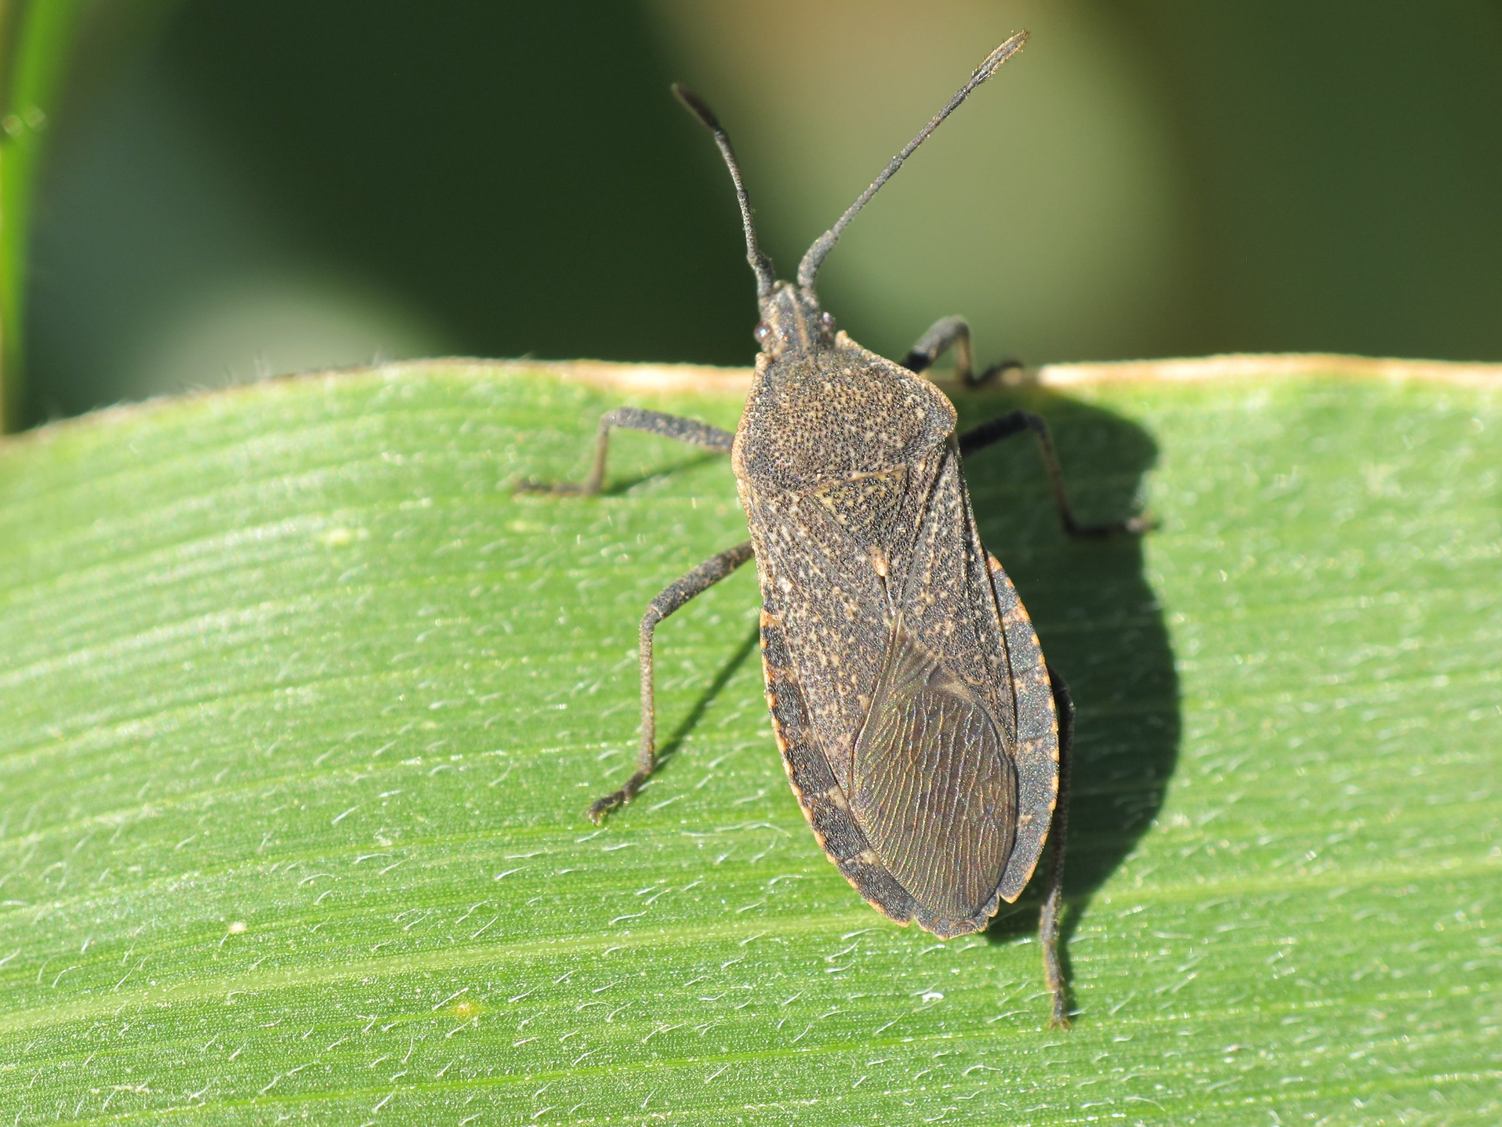
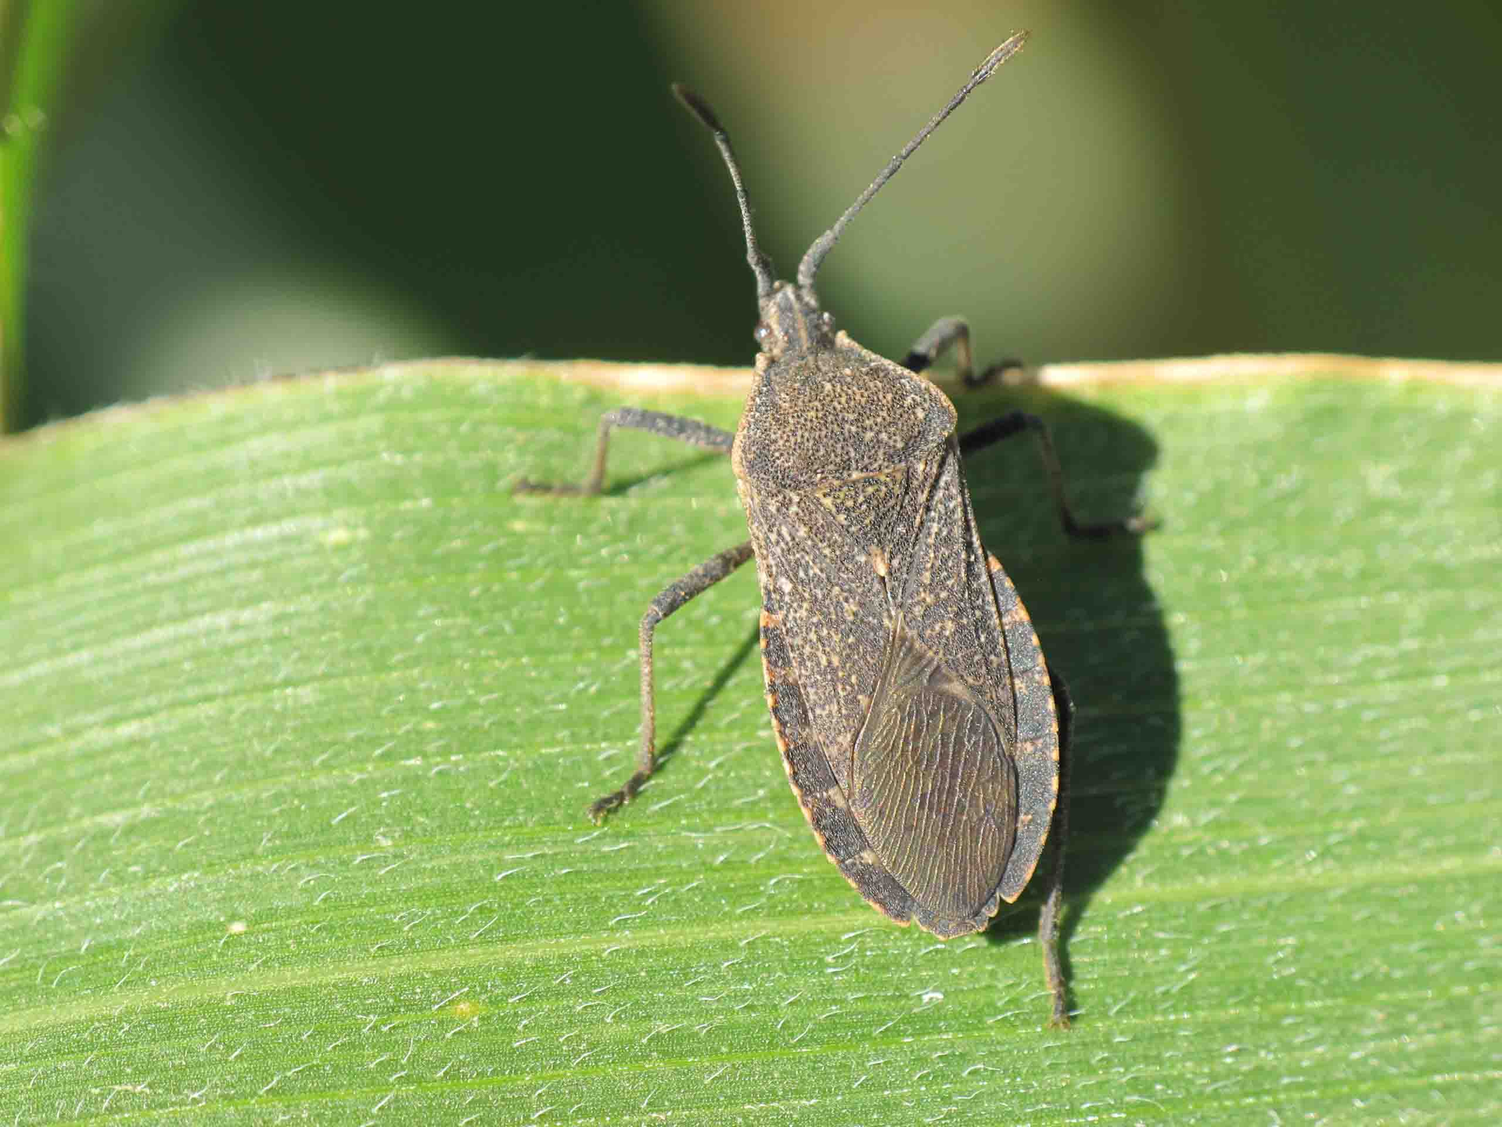
Changed sizes of all the pictures and added alt tags.

Changed region(s): [[0.5, 0.3125, 0.7188, 0.8438], [0.0, 0.8438, 0.6562, 1.0]]

diff --git a/fight.html b/fight.html
@@ -55,9 +55,9 @@
                 <div class="accordion-item-body">
                     <div class="accordion-item-body-content">
                         <a href="images/cucumber-beetle.jpg" target=blank>
-                            <img src="images/cucumber-beetle.jpg" class="accordion-image">
+                            <img src="images/cucumber-beetle.jpg" alt="Spotted and striped cucumber beetles" class="accordion-image">
                         </a>
-                        A cucumber beetle resembles a ladybug in size and appearance, but is easily distinguishable
+                        <p>A cucumber beetle resembles a ladybug in size and appearance, but is easily distinguishable
                         due to its bright yellow color. The adults can be found on cucurbits such as
                         cucumbers, squash, watermelon, and a variety of other plants. They are notorious pests of
                         agricultural crops.
@@ -67,7 +67,7 @@
                         plants in a matter of weeks.
                         Eradication efforts include clearing cultivated areas of litter, debris, and infested
                         plants. They are also attracted to the color yellow, so placing yellow sticky traps in the area
-                        will often capture hundreds of them and take them out of circulation in your garden.
+                        will often capture hundreds of them and take them out of circulation in your garden.</p>
                     </div>
                 </div>
             </div>
@@ -81,9 +81,9 @@
                 <div class="accordion-item-body">
                     <div class="accordion-item-body-content">
                         <a href="images/squash-bug.jpg" target=blank>
-                            <img src="images/squash-bug.jpg" class="accordion-image">
+                            <img src="images/squash-bug.jpg" alt="Squash bug on leaf" class="accordion-image">
                         </a>
-                        The squash bug is a major pest of squash and pumpkins and is found throughout North America.
+                        <p>The squash bug is a major pest of squash and pumpkins and is found throughout North America.
                         They
                         emit an unpleasant odor when killed.
                         The adult female lays two or three batches of about eighteen eggs, oval and bronze in colour,
@@ -97,7 +97,7 @@
                         manually removed
                         and dropped into a bucket of soapy water and left to drown. If not controlled, they will
                         multiply
-                        by the hundreds and completely decimate entire crops of vegetables.
+                        by the hundreds and completely decimate entire crops of vegetables.</p>
                     </div>
                 </div>
             </div>
@@ -111,9 +111,9 @@
                 <div class="accordion-item-body">
                     <div class="accordion-item-body-content">
                         <a href="images/squash-vine-borer.jpg" target=blank>
-                            <img src="images/squash-vine-borer.jpg" class="accordion-image">
+                            <img src="images/squash-vine-borer.jpg" alt="Squash vine-boring moth" class="accordion-image">
                         </a>
-                        The squash vine borer is a species of moth that is often mistaken for a bee or wasp because of
+                        <p>The squash vine borer is a species of moth that is often mistaken for a bee or wasp because of
                         its movements, and its bright orange hind leg
                         scales. The females typically lay their eggs at the base of leaf stalks, and the caterpillars
                         develop and feed inside the stalk, eventually killing the leaf. They soon migrate to the main
@@ -124,7 +124,7 @@
                         Brazil and Argentina. It lives in most temperate US states, except the Pacific
                         coast. Southern states have two broods a year. A small utility knife and tweezers, or other fine
                         tools, may be used to gently cut open the stem
-                        and try to extract the larva before it can kill the plant.
+                        and try to extract the larva before it can kill the plant.</p>
                     </div>
                 </div>
             </div>
@@ -138,9 +138,9 @@
                 <div class="accordion-item-body">
                     <div class="accordion-item-body-content">
                         <a href="images/tomato-hornworm.jpg" target=blank>
-                            <img src="images/tomato-hornworm.jpg" class="accordion-image">
+                            <img src="images/tomato-hornworm.jpg" alt="Tomato hornworm on plant" class="accordion-image">
                         </a>
-                        The tomato hornworm is a major pest in gardens; they get their name from a dark projection on
+                        <p>The tomato hornworm is a major pest in gardens; they get their name from a dark projection on
                         their posterior and their use of
                         tomatoes as host plants. Tomato hornworms are closely related to (and sometimes confused with)
                         the tobacco hornworm Manduca Sexta. This confusion arises because caterpillars of both species
@@ -153,7 +153,7 @@
                         during the day and are generally high up in the leaves. They are very large insects, often over
                         1 inch
                         in length, and can be manually
-                        removed from plants with ease and disposed of.
+                        removed from plants with ease and disposed of.</p>
                     </div>
                 </div>
             </div>
@@ -167,9 +167,9 @@
                 <div class="accordion-item-body">
                     <div class="accordion-item-body-content">
                         <a href="images/japanese-beetle.jpg" target=blank>
-                            <img src="images/japanese-beetle.jpg" class="accordion-image">
+                            <img src="images/japanese-beetle.jpg" alt="Japanese beetle on leaf" class="accordion-image">
                         </a>
-                        The Japanese beetle is a species of scarab beetle. The adult has an iridescent copper-colored
+                        <p>The Japanese beetle is a species of scarab beetle. The adult has an iridescent copper-colored
                         body and a green
                         thorax and head. It is not very destructive in Japan (where it is controlled by natural
                         predators), but in North America and some regions of Europe it is a noted pest to roughly 300
@@ -182,7 +182,7 @@
                         specifically to target Japanese beetles. These comprise a pair of crossed walls with a bag or
                         plastic container underneath and are baited with floral scent, pheromone, or both. The bugs
                         crawl
-                        inside, get trapped and die.
+                        inside, get trapped and die.</p>
                     </div>
                 </div>
             </div>
@@ -196,9 +196,9 @@
                 <div class="accordion-item-body">
                     <div class="accordion-item-body-content">
                         <a href="images/fusarium-wilt.jpg" target=blank>
-                            <img src="images/fusarium-wilt.jpg" class="accordion-image">
+                            <img src="images/fusarium-wilt.jpg" alt="Tomate plant with severe fusarium wilt" class="accordion-image">
                         </a>
-                        Fusarium wilt is a common vascular wilt fungal disease.
+                        <p>Fusarium wilt is a common vascular wilt fungal disease.
                         The fungal pathogen Fusarium Oxysporum affects a wide variety of plants of any age. Tomato,
                         tobacco, legumes, cucurbits, sweet potatoes and banana are a few of the most susceptible plants,
                         but it also infects other herbaceous plants. The fungus generally produces symptoms such as
@@ -210,7 +210,7 @@
                         fungus has appeared, it is generally too late to save the plant. Preventative steps should be
                         taken
                         to prevent its appearance, such as the application of natural fungicides like Copper and
-                        Mancozeb.
+                        Mancozeb.</p>
                     </div>
                 </div>
             </div>
@@ -224,9 +224,9 @@
                 <div class="accordion-item-body">
                     <div class="accordion-item-body-content">
                         <a href="images/tomato-blight.jpg" target=blank>
-                            <img src="images/tomato-blight.jpg" class="accordion-image">
+                            <img src="images/tomato-blight.jpg" alt="Tomaotes with blight spots on their skin" class="accordion-image">
                         </a>
-                        Blight is a rapid and complete chlorosis, browning, then death of plant tissues such as leaves,
+                        <p>Blight is a rapid and complete chlorosis, browning, then death of plant tissues such as leaves,
                         branches, twigs, flowers, or fruit.
                         When blights have been particularly vast and consequential in their effects, they have become
                         named historical events, such as the 19th Century Potato Blight, also known as the Great Famine
@@ -239,7 +239,7 @@
                         any
                         plant beleived to be suffering from the disease should be removed from the garden and destroyed
                         as
-                        quickly as possible.
+                        quickly as possible.</p>
                     </div>
                 </div>
             </div>
@@ -253,9 +253,9 @@
                 <div class="accordion-item-body">
                     <div class="accordion-item-body-content">
                         <a href="images/powdery-mildew.jpg" target=blank>
-                            <img src="images/powdery-mildew.jpg" class="accordion-image">
+                            <img src="images/powdery-mildew.jpg" alt="Powdery mildew on squash leaf" class="accordion-image">
                         </a>
-                        Powdery mildew is a fungal disease that affects a wide range of plants. The disease is caused
+                        <p>Powdery mildew is a fungal disease that affects a wide range of plants. The disease is caused
                         by many different species of fungi and is one of the easier plant diseases to identify, as its
                         symptoms are quite distinctive.
                         Infected plants display white powdery spots on the leaves and stems. The lower leaves are the
@@ -265,7 +265,7 @@
                         Powdery mildew grows well in environments with high humidity and moderate temperatures, such as
                         Kentucky. The disease is also known to cause harm to agricultural and horticultural practices in
                         a greenhouse setting. Preventative maintenance is the key: apply natural fungicides
-                        such as Copper and Mancozeb before the disease makes an appearance.
+                        such as Copper and Mancozeb before the disease makes an appearance.</p>
                     </div>
                 </div>
             </div>
@@ -279,9 +279,9 @@
                 <div class="accordion-item-body">
                     <div class="accordion-item-body-content">
                         <a href="images/downy-mildew.jpg" target=blank>
-                            <img src="images/downy-mildew.jpg" class="accordion-image">
+                            <img src="images/downy-mildew.jpg" alt="Downy mildew on squash leaf" class="accordion-image">
                         </a>
-                        Despite its name, Downy Mildew is not actually mildew, but rather microbes that are parasites of
+                        <p>Despite its name, Downy Mildew is not actually mildew, but rather microbes that are parasites of
                         plants. In commercial
                         agriculture, they are a particular problem for growers of grapes and any vegetables that
                         grow on vines. Yield loss associated with downy mildew is usually
@@ -292,7 +292,7 @@
                         rapidly, destroying all leaf tissue.
                         One way to control the spread is to eliminate moisture and humidity around the impacted
                         plants. You can achieve this by watering from below, such as with a drip system, and improving
-                        air circulation through selective pruning.
+                        air circulation through selective pruning.</p>
                     </div>
                 </div>
             </div>
@@ -306,9 +306,9 @@
                 <div class="accordion-item-body">
                     <div class="accordion-item-body-content">
                         <a href="images/leaf-spot.jpg" target=blank>
-                            <img src="images/leaf-spot.jpg" class="accordion-image">
+                            <img src="images/leaf-spot.jpg" alt="Leaf spot on blackberry leaves" class="accordion-image">
                         </a>
-                        A leaf spot is a discolored, diseased area of a leaf that is caused by fungal,
+                        <p>A leaf spot is a discolored, diseased area of a leaf that is caused by fungal,
                         bacterial or viral plant diseases. These discoloured spots or lesions often have a center of
                         necrosis (cell death).
                         Prolonged wet and humid conditions promote leaf spot disease and most pathogens are spread by
@@ -319,7 +319,7 @@
                         Fungicides such as Zineb, Chlorothalonil and Captan, can be used to treat the disease. If
                         the spots appear later in the season, they can usually be ignored if present on deciduous plants
                         since the leaves will be dropped. Be sure to bag the leaves and remove them to prevent the
-                        disease from reappearing the following year.
+                        disease from reappearing the following year.</p>
                     </div>
                 </div>
             </div>

diff --git a/grow.html b/grow.html
@@ -53,7 +53,7 @@
                 </div>
                 <div class="accordion-item-body">
                     <div class="accordion-item-body-content">
-                        <a href="images/tomatoes.jpg" target=blank>
+                        <a href="images/tomatoes.jpg" alt="Red tomatoes" target=blank>
                             <img src="images/tomatoes.jpg" class="accordion-image">
                         </a>
                         <p>Virtually any type of tomato can be grown in Kentucky. There are hundreds of varieties
@@ -85,7 +85,7 @@
                 <div class="accordion-item-body">
                     <div class="accordion-item-body-content">
                         <a href="images/peppers.jpg" target=blank>
-                            <img src="images/peppers.jpg" class="accordion-image">
+                            <img src="images/peppers.jpg" alt="Multi-colored bell peppers" class="accordion-image">
                         </a>
                         <p>Peppers are fairly easy to grow. There are not very many pests or animals that eat the
                             leaves or the peppers themselves. Popular varieties are Bell, Jalapeno, Serrano, and
@@ -116,7 +116,7 @@
                 <div class="accordion-item-body">
                     <div class="accordion-item-body-content">
                         <a href="images/onions.jpg" target=blank>
-                            <img src="images/onions.jpg" class="accordion-image">
+                            <img src="images/onions.jpg" alt="Yellow onions" class="accordion-image">
                         </a>
                         <p>Onion bulbs should be planted about one inch beneath the soil surface. Lightly pack the dirt
                             over top of them, but do not smash it flat or the bulb may have difficulty sprouting and
@@ -151,7 +151,7 @@
                 <div class="accordion-item-body">
                     <div class="accordion-item-body-content">
                         <a href="images/garlic.jpg" target=blank>
-                            <img src="images/garlic.jpg" class="accordion-image">
+                            <img src="images/garlic.jpg" alt="Freshly picked garlic bulbs" class="accordion-image">
                         </a>
                         <p>Garlic is one of the simplest plants to grow. There are very few pests that attack it and
                             most
@@ -182,7 +182,7 @@
                 <div class="accordion-item-body">
                     <div class="accordion-item-body-content">
                         <a href="images/watermelon.jpg" target=blank>
-                            <img src="images/watermelon.jpg" class="accordion-image">
+                            <img src="images/watermelon.jpg" alt="Watermelon slices" class="accordion-image">
                         </a>
                         <p>Watermelon is not one of the easiest fruits to grow, but it is one of the most delicious.
                             Depending on the variety, watermelons can be anywhere from the size of a bowling ball on up
@@ -211,7 +211,7 @@
                 <div class="accordion-item-body">
                     <div class="accordion-item-body-content">
                         <a href="images/cucumbers.jpg" target=blank>
-                            <img src="images/cucumbers.jpg" class="accordion-image">
+                            <img src="images/cucumbers.jpg" alt="Pickling cucumbers" class="accordion-image">
                         </a>
                         <p>Cucumbers can grow on the ground, but they are for more successful when allowed to climb
                             upward
@@ -247,7 +247,7 @@
                 <div class="accordion-item-body">
                     <div class="accordion-item-body-content">
                         <a href="images/zucchini.jpg" target=blank>
-                            <img src="images/zucchini.jpg" class="accordion-image">
+                            <img src="images/zucchini.jpg" alt="Green zucchini" class="accordion-image">
                         </a>
                         <p>There are dozens of types of squash that can be grown in Kentucky, but the most popular is
                             definitely the zucchini.
@@ -279,7 +279,7 @@
                 <div class="accordion-item-body">
                     <div class="accordion-item-body-content">
                         <a href="images/potatoes.jpg" target=blank>
-                            <img src="images/potatoes.jpg" class="accordion-image">
+                            <img src="images/potatoes.jpg" alt="Yellow potatoes" class="accordion-image">
                         </a>
                         <p>Potatoes should be planted a few inches beneath the soil. As they grow, you will begin to see
                             the soil
@@ -313,7 +313,7 @@
                 <div class="accordion-item-body">
                     <div class="accordion-item-body-content">
                         <a href="images/asparagus.jpg" target=blank>
-                            <img src="images/asparagus.jpg" class="accordion-image">
+                            <img src="images/asparagus.jpg" alt="Asparagus spears" class="accordion-image">
                         </a>
                         <p>Asparagus should be planted about 6 inches deep. As the plant begins to grow, you must not
                             harvest it
@@ -346,7 +346,7 @@
                 <div class="accordion-item-body">
                     <div class="accordion-item-body-content">
                         <a href="images/herbs.jpg" target=blank>
-                            <img src="images/herbs.jpg" class="accordion-image">
+                            <img src="images/herbs.jpg" alt="Basil, rosemary and thyme" class="accordion-image">
                         </a>
                         <p>Herbs are abundant in Kentucky. Rosemary, thyme, basil, oregano, sage, mint... they all have
                             wonderful

diff --git a/script.js b/script.js
@@ -8,10 +8,15 @@ hamburger.addEventListener("click", () => {
     navMenu.classList.toggle("active");
 })
 
-document.querySelectorAll("nav-link").forEach(n => n.addEventListener("click", () => {
+window.addEventListener("scroll", () => {
     hamburger.classList.remove("active");
     navMenu.classList.remove("active");
-}))
+})
+
+// document.querySelectorAll("nav-link").forEach(n => n.addEventListener("click", () => {
+//     hamburger.classList.remove("active");
+//     navMenu.classList.remove("active");
+// }))
 
 // show an alert when the contact form button is clicked
 
@@ -25,15 +30,9 @@ const accordionItemHeaders = document.querySelectorAll(".accordion-item-header")
 
 accordionItemHeaders.forEach(accordionItemHeader => {
     accordionItemHeader.addEventListener("click", () => {
-        // const currentlyActiveAccordion = document.querySelector(".accordion-item-header.active");
-        // if(currentlyActiveAccordion && currentlyActiveAccordion!==accordionItemHeader){
-        //     currentlyActiveAccordion.classList.toggle("active");
-        //     currentlyActiveAccordion.nextElementSibling.style.maxHeight = 0;
-        // }
-
         accordionItemHeader.classList.toggle("active");
         const accordionItemBody = accordionItemHeader.nextElementSibling;
-        if(accordionItemHeader.classList.contains("active")) {
+        if (accordionItemHeader.classList.contains("active")) {
             accordionItemBody.style.maxHeight = accordionItemBody.scrollHeight + "px"
         }
         else {

diff --git a/styles.css b/styles.css
@@ -53,6 +53,8 @@ a {
 .hamburger {
     display: none;
     cursor: pointer;
+    background: none;
+    border: none;
 }
 
 .bar {
@@ -135,8 +137,8 @@ a {
 /* clickable card section */
 
 .card-container {
-    background-image: linear-gradient(rgba(0, 0, 0, 50%), rgba(0, 0, 0, 70%)), url(images/card-background.jpg);
-    background-size: cover;
+    background-color: #14341c;
+    background-image: linear-gradient(#14341c, black);
     display: flex;
     justify-content: center;
     align-items: center;
@@ -285,7 +287,7 @@ a {
     width: 150px;
     float: left;
     object-fit: cover;
-    margin: 5px 20px 5px 0;
+    margin: 15px 20px 5px 0;
     border-color: #14341c;
     border-style: solid;
     border-width: 2px;
@@ -428,4 +430,5 @@ h3 for the contact form and the h1 for the accordion headers*/
     }
     .accordion-item-body-content a {
         text-align: left;
+}
 }

diff --git a/index.html b/index.html
@@ -23,11 +23,11 @@
                 <li class="nav-item"><a href="know.html">Know</a></li>
                 <li class="nav-item"><a href="contact.html">Contact</a></li>
             </ul>
-            <div class="hamburger">
+            <button class="hamburger">
                 <span class="bar"></span>
                 <span class="bar"></span>
                 <span class="bar"></span>
-            </div>
+            </button>
         </nav>
     </header>
 
